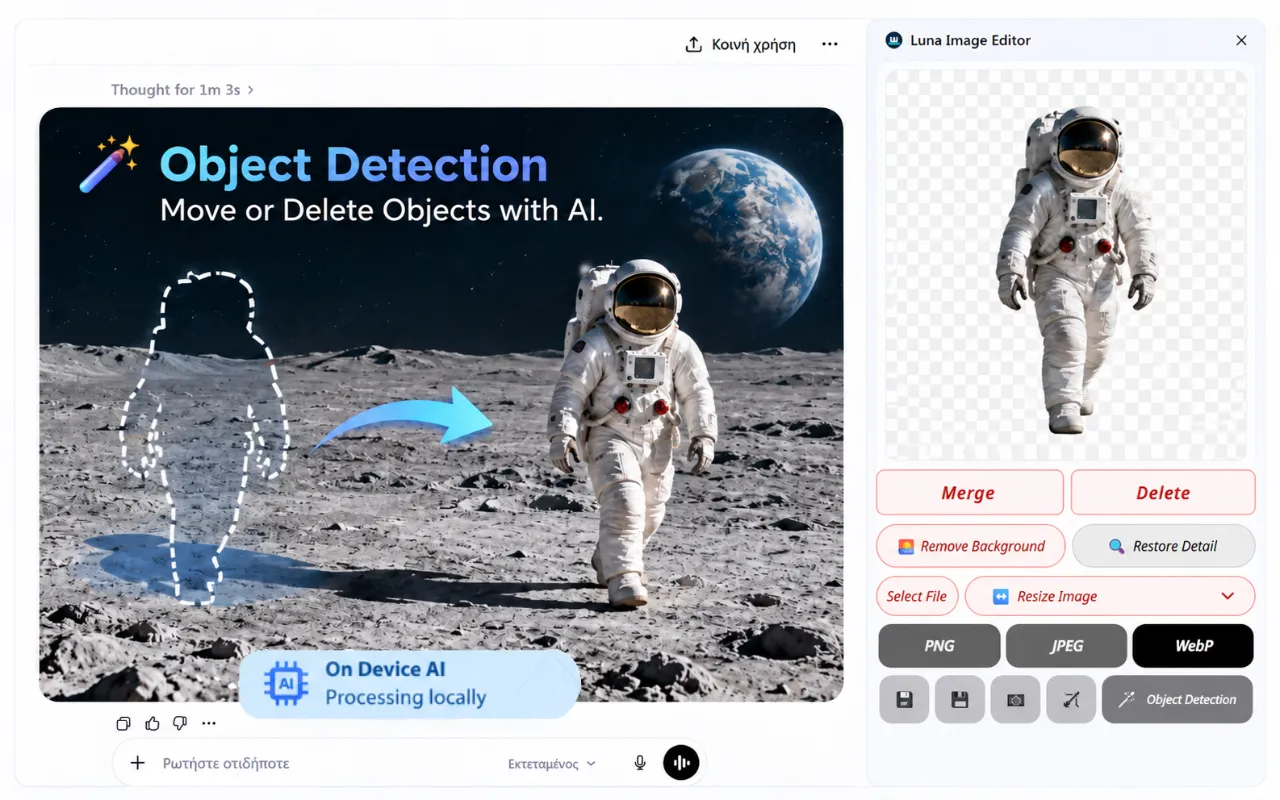
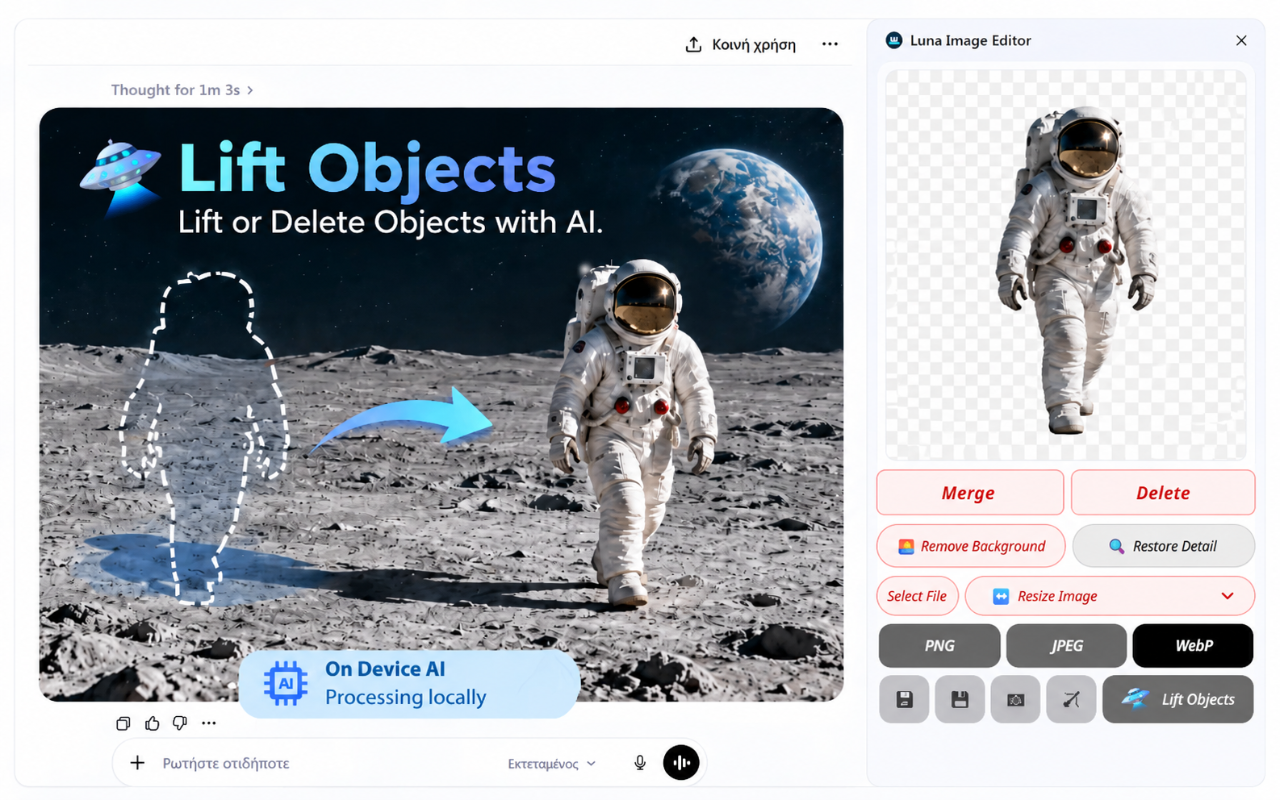
οκκ

diff --git a/luna-crop/index.html b/luna-crop/index.html
@@ -6,13 +6,13 @@
 	<meta name="viewport" content="width=device-width, initial-scale=1.0">
 	<title>Fast Image Editor with AI: Crop, Background Removal &amp; Upscaling</title>
     <meta name="description"
-        content="AI image editor for browser & IDE. Crop, resize for social, remove & rebuild backgrounds, move objects with AI, upscale/restore details, OCR text from images/videos, overlay images, convert WebP/PNG/JPEG — all offline, no upload.">
+        content="AI image editor for browser & IDE. Crop, resize for social, remove & rebuild backgrounds, lift objects with AI, upscale/restore details, OCR text from images/videos, overlay images, convert WebP/PNG/JPEG. All offline, no upload.">
 
 	<!-- Open Graph / Facebook -->
 	<meta property="og:type" content="website">
 	<meta property="og:url" content="https://ceres-assistant.com/luna-crop/">
     <meta property="og:title" content="Fast Image Editor with AI: Crop, Background Removal &amp; Upscaling">
-    <meta property="og:description" content="AI image editor for browser & IDE. Crop, resize for social, remove & rebuild backgrounds, move objects with AI, upscale/restore details, OCR text, overlay images and convert formats — all offline, no upload.">
+    <meta property="og:description" content="AI image editor for browser & IDE. Crop, resize for social, remove & rebuild backgrounds, lift objects with AI, upscale/restore details, OCR text, overlay images and convert formats. All offline, no upload.">
     <meta property="og:image" content="https://ceres-assistant.com/favicon-2-facebook.webp">
     <meta property="og:image:width" content="1200">
     <meta property="og:image:height" content="630">
@@ -24,7 +24,7 @@
 	<meta name="twitter:card" content="summary_large_image">
 	<meta name="twitter:url" content="https://ceres-assistant.com/luna-crop/">
     <meta name="twitter:title" content="Fast Image Editor with AI: Crop, Background Removal &amp; Upscaling">
-    <meta name="twitter:description" content="AI image editor for browser & IDE. Crop, resize for social, remove & rebuild backgrounds, move objects with AI, upscale/restore details, OCR text, overlay images and convert formats — all offline, no upload.">
+    <meta name="twitter:description" content="AI image editor for browser & IDE. Crop, resize for social, remove & rebuild backgrounds, lift objects with AI, upscale/restore details, OCR text, overlay images and convert formats. All offline, no upload.">
     <meta name="twitter:image" content="https://ceres-assistant.com/favicon-2-facebook.webp">
     <meta name="twitter:image:alt" content="Luna Crop image editor banner">
 
@@ -73,7 +73,7 @@
 					<img src="/favicon-2.webp" alt="Fast Image Editor with AI logo">
 				</div>
 				<h1 class="product-intro-simple-title">Fast Image Editor with AI</h1>
-				<p class="product-intro-simple-description">Fast image editing with AI &bull; extract and remove objects, crop, resize, or edit screenshots. Luna prepares files faster directly inside your browser or IDE, with no upload needed.</p>
+				<p class="product-intro-simple-description">Fast image editing with AI &bull; lift objects to move, copy or delete them, crop, resize, or edit screenshots. Luna prepares files faster directly inside your browser or IDE, with no upload needed.</p>
 				<div class="product-intro-simple-actions">
 					<div class="product-install-options">
 						<div class="product-install-option">
@@ -129,26 +129,26 @@
 
 			<section class="product-section product-audience-section">
 				<div class="product-audience-intro">
-					<h2 class="product-section-title">Move Objects with AI</h2>
-					<p>Select any object by hand, drag it to a new position, or remove it entirely — the background reconstructs itself automatically, even on plain JPG files.</p>
+					<h2 class="product-section-title">Lift Objects with AI</h2>
+					<p>Click Lift, then select an object to move, copy or delete it. The background fills in automatically, even on plain JPG files.</p>
 				</div>
 				<div class="product-audience-grid product-audience-grid-single">
 					<article class="product-audience-item">
-						<h3>Select, Move or Remove</h3>
-						<div class="product-audience-icon product-audience-icon-fire">✂</div>
-						<p>Brush over any subject to isolate it, then reposition it anywhere on the frame or erase it from the scene completely.</p>
+						<h3>Lift, Move, Copy or Delete</h3>
+						<div class="product-audience-icon product-audience-icon-fire">🛸</div>
+						<p>Point at an object to preview the selection, then click to lift it. Move it anywhere, copy it or delete it.</p>
 					</article>
 					<article class="product-audience-item">
 						<h3>Background Paints Itself</h3>
 						<div class="product-audience-icon product-audience-icon-wand">🪄</div>
-						<p>The area behind the object fills in on its own with matching textures and lighting — no PSD layers, no GIMP projects, just a standard image file.</p>
+						<p>The area behind the lifted object fills in automatically. Work directly with a standard image file.</p>
 					</article>
 				</div>
 			</section>
 
 			<section class="product-section">
 				<div class="product-shot">
-					<img src="../screenshots-new/2026-08-03_00-00-66.webp" alt="Move objects with AI inside Fast Image Editor" loading="lazy">
+					<img src="../screenshots-new/2026-08-03_00-00-66.webp" alt="Lift objects with AI inside Fast Image Editor" loading="lazy">
 				</div>
 			</section>
 
@@ -282,7 +282,7 @@
 						<article class="product-capability-card"><h3>Offline Canva</h3></article>
 						<article class="product-capability-card"><h3>Screen Text Extractor</h3></article>
 						<article class="product-capability-card"><h3>Website Image Editor</h3></article>
-						<article class="product-capability-card"><h3>AI Object Mover</h3></article>
+						<article class="product-capability-card"><h3>🛸 Lift Objects</h3></article>
 						<article class="product-capability-card"><h3>Screenshot Editor Tool</h3></article>
 					</div>
 				</div>
